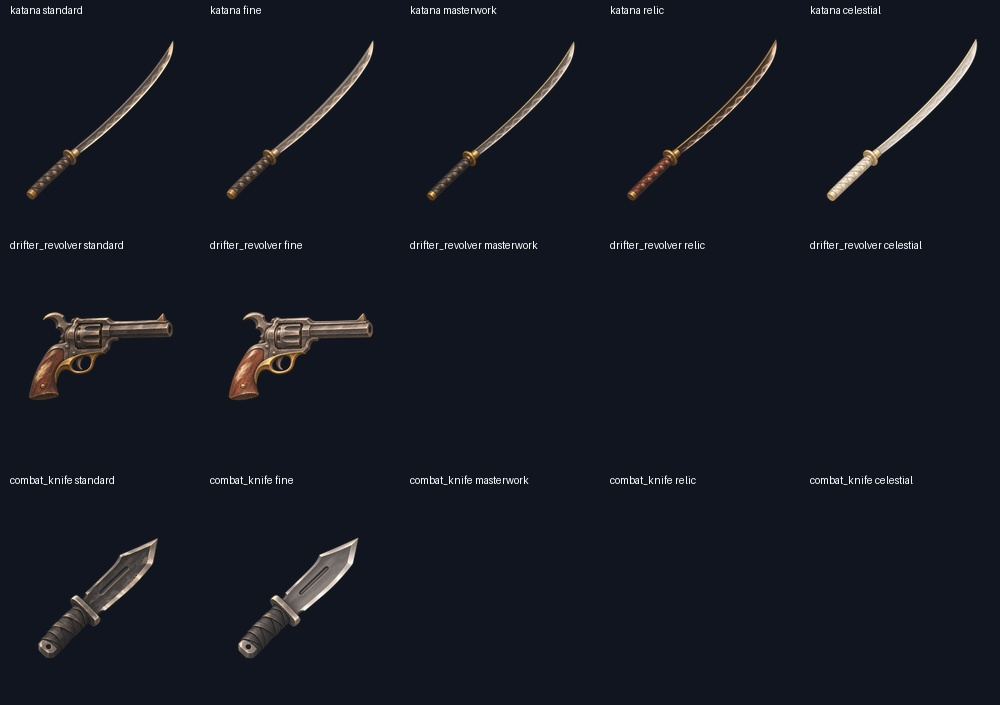
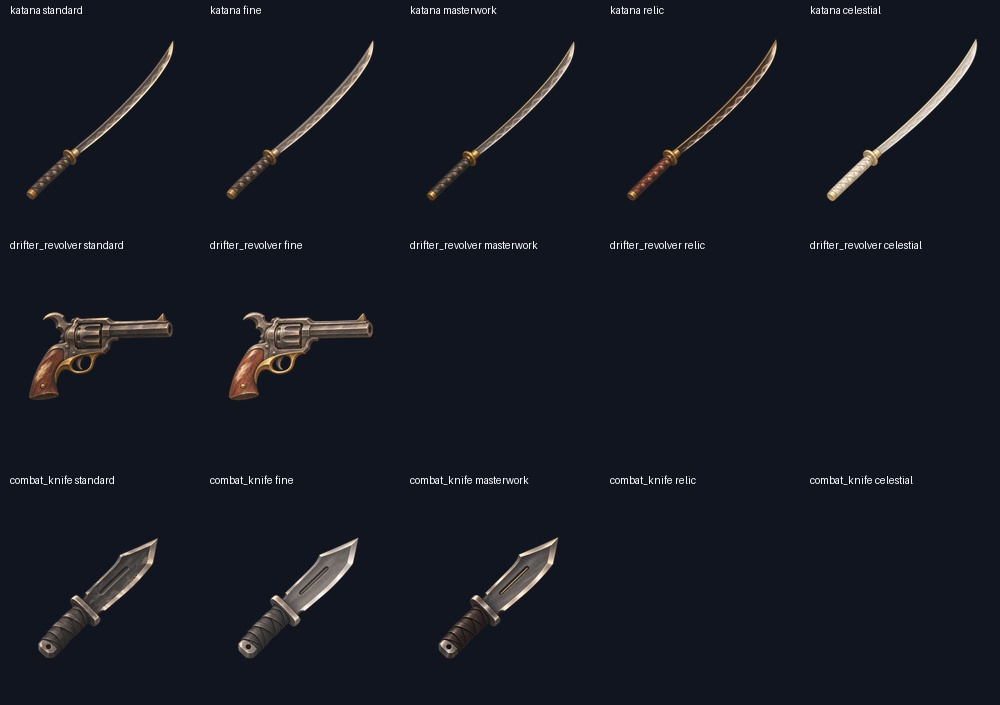
Archive combat_knife masterwork grade proof

Changed region(s): [[0.434, 0.7489, 0.558, 0.9362]]

diff --git a/art/_archive/prompt-pack/2026-11-19-file-08/PROGRESS.md b/art/_archive/prompt-pack/2026-11-19-file-08/PROGRESS.md
@@ -1,5 +1,5 @@
 # Grade proof progress
 
-8 archived PNG attempts, including earlier Fine trials. The composite shows the current candidate for each finish.
+9 archived PNG attempts, including earlier Fine trials. The composite shows the current candidate for each finish.
 
 [Proof progress](review/complete-proof-progress.jpg)
